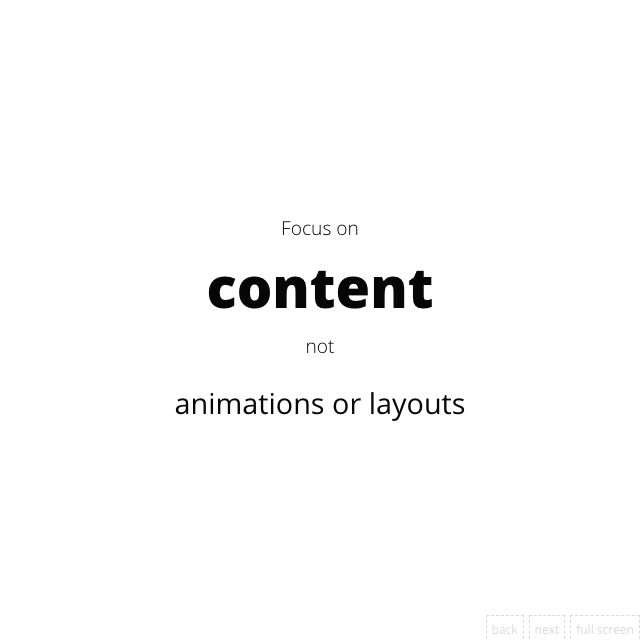
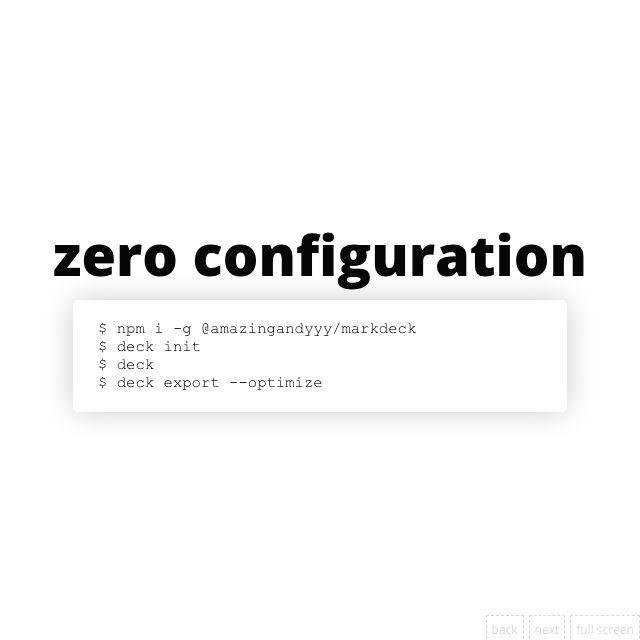
tend to deploy

Changed region(s): [[0.0625, 0.3438, 0.9375, 0.5625], [0.1562, 0.5, 0.75, 0.6562]]

diff --git a/demo/docs/deck/presentation/index.html b/demo/docs/deck/presentation/index.html
@@ -1,8 +1,20 @@
-<html lang="en"><head><meta charset="utf-8"><meta name="viewport" content="width=device-width,initial-scale=1"><meta name="referrer" content="no-referrer-when-downgrade"><title>Presentation | Welcome</title><meta property="og:type" content="article"><meta property="og:title" content="Presentation | Welcome"><meta property="og:site_name" content="markdeck"><meta property="og:image" content="https://raw.githubusercontent.com/amazingandyyy/markdeck/master/demo/docs/deck/presentation/meta/index.jpeg?1565638772988"><meta property="og:image:type" content="image/png"><meta name="twitter:card" content="summary_large_image"><meta name="twitter:image" content="https://raw.githubusercontent.com/amazingandyyy/markdeck/master/demo/docs/deck/presentation/meta/index.jpeg?1565638772988"><meta name="twitter:title" content="Presentation | Welcome"><meta property="article:modified_time" content="Mon Aug 12 2019 12:39:32 GMT-0700 (Pacific Daylight Time)"><meta property="article:publisher" content="https://amazingandyyy.com/markdeck"><meta name="twitter:site" content="@markdeck"><meta name="twitter:creator" content="@markdeck"><meta property="og:image:width" content="640"><meta property="og:image:height" content="640"><meta property="og:description" content="# Markdeck v2.1
+<html lang="en"><head><meta charset="utf-8"><meta name="viewport" content="width=device-width,initial-scale=1"><meta name="referrer" content="no-referrer-when-downgrade"><title>Presentation | Welcome</title><meta property="og:type" content="article"><meta property="og:title" content="Presentation | Welcome"><meta property="og:site_name" content="markdeck"><meta property="og:image" content="https://raw.githubusercontent.com/amazingandyyy/markdeck/master/demo/docs/deck/presentation/meta/index.jpeg?1565639082796"><meta property="og:image:type" content="image/png"><meta name="twitter:card" content="summary_large_image"><meta name="twitter:image" content="https://raw.githubusercontent.com/amazingandyyy/markdeck/master/demo/docs/deck/presentation/meta/index.jpeg?1565639082796"><meta name="twitter:title" content="Presentation | Welcome"><meta property="article:modified_time" content="Mon Aug 12 2019 12:44:42 GMT-0700 (Pacific Daylight Time)"><meta property="article:publisher" content="https://amazingandyyy.com/markdeck"><meta name="twitter:site" content="@markdeck"><meta name="twitter:creator" content="@markdeck"><meta property="og:image:width" content="640"><meta property="og:image:height" content="640"><meta property="og:description" content="# Markdeck v0.2
 
-## Build SEO friendy, sharable presentation immediately
- 
+### The first SEO friendly presentation builder
+
 Inpired by Nextjs, zero configuration!
+
+---
+
+
+# zero configuration
+
+```shell
+$ npm i -g @amazingandyyy/markdeck
+$ deck init
+$ deck
+$ deck export --optimize
+```
 
 ---
 
@@ -12,17 +24,7 @@ Focus on
 
 not
 
-## animations or layouts
-
----
-
-## zero configuration
-
-```shell
-$ npm i -g @amazingandyyy/markdeck
-$ deck init
-$ deck
-```
+### animations or layouts
 
 ---
 
@@ -67,4 +69,4 @@ Open Source On
             function goForward(loc) {
               const url = getCurrentPath()+"/"+loc;
               window.location.href = url;
-            }</script></head><body id="page-0"><div id="displayer"><div><h1 id="markdeckv21">Markdeck v2.1</h1><h2 id="buildseofriendysharablepresentationimmediately">Build SEO friendy, sharable presentation immediately</h2><p>Inpired by Nextjs, zero configuration!</p></div></div><div id="btn-container"><a class="btn" onclick='goBack("index.html")'>back</a> <a class="btn" onclick='goForward("1.html")'>next</a> <a class="btn" onclick="toggleFullScreen()">full screen</a></div></body></html>
+            }</script></head><body id="page-0"><div id="displayer"><div><h1 id="markdeckv02">Markdeck v0.2</h1><h3 id="thefirstseofriendlypresentationbuilder">The first SEO friendly presentation builder</h3><p>Inpired by Nextjs, zero configuration!</p></div></div><div id="btn-container"><a class="btn" onclick='goBack("index.html")'>back</a> <a class="btn" onclick='goForward("1.html")'>next</a> <a class="btn" onclick="toggleFullScreen()">full screen</a></div></body></html>

diff --git a/demo/docs/deck/presentation/1.html b/demo/docs/deck/presentation/1.html
@@ -1,8 +1,20 @@
-<html lang="en"><head><meta charset="utf-8"><meta name="viewport" content="width=device-width,initial-scale=1"><meta name="referrer" content="no-referrer-when-downgrade"><title>Presentation | 1</title><meta property="og:type" content="article"><meta property="og:title" content="Presentation | 1"><meta property="og:site_name" content="markdeck"><meta property="og:image" content="https://raw.githubusercontent.com/amazingandyyy/markdeck/master/demo/docs/deck/presentation/meta/1.jpeg?1565638773019"><meta property="og:image:type" content="image/png"><meta name="twitter:card" content="summary_large_image"><meta name="twitter:image" content="https://raw.githubusercontent.com/amazingandyyy/markdeck/master/demo/docs/deck/presentation/meta/1.jpeg?1565638773019"><meta name="twitter:title" content="Presentation | 1"><meta property="article:modified_time" content="Mon Aug 12 2019 12:39:33 GMT-0700 (Pacific Daylight Time)"><meta property="article:publisher" content="https://amazingandyyy.com/markdeck"><meta name="twitter:site" content="@markdeck"><meta name="twitter:creator" content="@markdeck"><meta property="og:image:width" content="640"><meta property="og:image:height" content="640"><meta property="og:description" content="# Markdeck v2.1
+<html lang="en"><head><meta charset="utf-8"><meta name="viewport" content="width=device-width,initial-scale=1"><meta name="referrer" content="no-referrer-when-downgrade"><title>Presentation | 1</title><meta property="og:type" content="article"><meta property="og:title" content="Presentation | 1"><meta property="og:site_name" content="markdeck"><meta property="og:image" content="https://raw.githubusercontent.com/amazingandyyy/markdeck/master/demo/docs/deck/presentation/meta/1.jpeg?1565639082821"><meta property="og:image:type" content="image/png"><meta name="twitter:card" content="summary_large_image"><meta name="twitter:image" content="https://raw.githubusercontent.com/amazingandyyy/markdeck/master/demo/docs/deck/presentation/meta/1.jpeg?1565639082821"><meta name="twitter:title" content="Presentation | 1"><meta property="article:modified_time" content="Mon Aug 12 2019 12:44:42 GMT-0700 (Pacific Daylight Time)"><meta property="article:publisher" content="https://amazingandyyy.com/markdeck"><meta name="twitter:site" content="@markdeck"><meta name="twitter:creator" content="@markdeck"><meta property="og:image:width" content="640"><meta property="og:image:height" content="640"><meta property="og:description" content="# Markdeck v0.2
 
-## Build SEO friendy, sharable presentation immediately
- 
+### The first SEO friendly presentation builder
+
 Inpired by Nextjs, zero configuration!
+
+---
+
+
+# zero configuration
+
+```shell
+$ npm i -g @amazingandyyy/markdeck
+$ deck init
+$ deck
+$ deck export --optimize
+```
 
 ---
 
@@ -12,17 +24,7 @@ Focus on
 
 not
 
-## animations or layouts
-
----
-
-## zero configuration
-
-```shell
-$ npm i -g @amazingandyyy/markdeck
-$ deck init
-$ deck
-```
+### animations or layouts
 
 ---
 
@@ -67,4 +69,8 @@ Open Source On
             function goForward(loc) {
               const url = getCurrentPath()+"/"+loc;
               window.location.href = url;
-            }</script></head><body id="page-1"><div id="displayer"><div><p>Focus on</p><h1 id="content">content</h1><p>not</p><h2 id="animationsorlayouts">animations or layouts</h2></div></div><div id="btn-container"><a class="btn" onclick='goBack("index.html")'>back</a> <a class="btn" onclick='goForward("2.html")'>next</a> <a class="btn" onclick="toggleFullScreen()">full screen</a></div></body></html>
+            }</script></head><body id="page-1"><div id="displayer"><div><h1 id="zeroconfiguration">zero configuration</h1><pre><code class="shell language-shell">$ npm i -g @amazingandyyy/markdeck
+$ deck init
+$ deck
+$ deck export --optimize
+</code></pre></div></div><div id="btn-container"><a class="btn" onclick='goBack("index.html")'>back</a> <a class="btn" onclick='goForward("2.html")'>next</a> <a class="btn" onclick="toggleFullScreen()">full screen</a></div></body></html>

diff --git a/demo/docs/deck/presentation/2.html b/demo/docs/deck/presentation/2.html
@@ -1,8 +1,20 @@
-<html lang="en"><head><meta charset="utf-8"><meta name="viewport" content="width=device-width,initial-scale=1"><meta name="referrer" content="no-referrer-when-downgrade"><title>Presentation | 2</title><meta property="og:type" content="article"><meta property="og:title" content="Presentation | 2"><meta property="og:site_name" content="markdeck"><meta property="og:image" content="https://raw.githubusercontent.com/amazingandyyy/markdeck/master/demo/docs/deck/presentation/meta/2.jpeg?1565638773024"><meta property="og:image:type" content="image/png"><meta name="twitter:card" content="summary_large_image"><meta name="twitter:image" content="https://raw.githubusercontent.com/amazingandyyy/markdeck/master/demo/docs/deck/presentation/meta/2.jpeg?1565638773024"><meta name="twitter:title" content="Presentation | 2"><meta property="article:modified_time" content="Mon Aug 12 2019 12:39:33 GMT-0700 (Pacific Daylight Time)"><meta property="article:publisher" content="https://amazingandyyy.com/markdeck"><meta name="twitter:site" content="@markdeck"><meta name="twitter:creator" content="@markdeck"><meta property="og:image:width" content="640"><meta property="og:image:height" content="640"><meta property="og:description" content="# Markdeck v2.1
+<html lang="en"><head><meta charset="utf-8"><meta name="viewport" content="width=device-width,initial-scale=1"><meta name="referrer" content="no-referrer-when-downgrade"><title>Presentation | 2</title><meta property="og:type" content="article"><meta property="og:title" content="Presentation | 2"><meta property="og:site_name" content="markdeck"><meta property="og:image" content="https://raw.githubusercontent.com/amazingandyyy/markdeck/master/demo/docs/deck/presentation/meta/2.jpeg?1565639082826"><meta property="og:image:type" content="image/png"><meta name="twitter:card" content="summary_large_image"><meta name="twitter:image" content="https://raw.githubusercontent.com/amazingandyyy/markdeck/master/demo/docs/deck/presentation/meta/2.jpeg?1565639082826"><meta name="twitter:title" content="Presentation | 2"><meta property="article:modified_time" content="Mon Aug 12 2019 12:44:42 GMT-0700 (Pacific Daylight Time)"><meta property="article:publisher" content="https://amazingandyyy.com/markdeck"><meta name="twitter:site" content="@markdeck"><meta name="twitter:creator" content="@markdeck"><meta property="og:image:width" content="640"><meta property="og:image:height" content="640"><meta property="og:description" content="# Markdeck v0.2
 
-## Build SEO friendy, sharable presentation immediately
- 
+### The first SEO friendly presentation builder
+
 Inpired by Nextjs, zero configuration!
+
+---
+
+
+# zero configuration
+
+```shell
+$ npm i -g @amazingandyyy/markdeck
+$ deck init
+$ deck
+$ deck export --optimize
+```
 
 ---
 
@@ -12,17 +24,7 @@ Focus on
 
 not
 
-## animations or layouts
-
----
-
-## zero configuration
-
-```shell
-$ npm i -g @amazingandyyy/markdeck
-$ deck init
-$ deck
-```
+### animations or layouts
 
 ---
 
@@ -67,7 +69,4 @@ Open Source On
             function goForward(loc) {
               const url = getCurrentPath()+"/"+loc;
               window.location.href = url;
-            }</script></head><body id="page-2"><div id="displayer"><div><h2 id="zeroconfiguration">zero configuration</h2><pre><code class="shell language-shell">$ npm i -g @amazingandyyy/markdeck
-$ deck init
-$ deck
-</code></pre></div></div><div id="btn-container"><a class="btn" onclick='goBack("1.html")'>back</a> <a class="btn" onclick='goForward("3.html")'>next</a> <a class="btn" onclick="toggleFullScreen()">full screen</a></div></body></html>
+            }</script></head><body id="page-2"><div id="displayer"><div><p>Focus on</p><h1 id="content">content</h1><p>not</p><h3 id="animationsorlayouts">animations or layouts</h3></div></div><div id="btn-container"><a class="btn" onclick='goBack("1.html")'>back</a> <a class="btn" onclick='goForward("3.html")'>next</a> <a class="btn" onclick="toggleFullScreen()">full screen</a></div></body></html>

diff --git a/demo/docs/deck/presentation/3.html b/demo/docs/deck/presentation/3.html
@@ -1,8 +1,20 @@
-<html lang="en"><head><meta charset="utf-8"><meta name="viewport" content="width=device-width,initial-scale=1"><meta name="referrer" content="no-referrer-when-downgrade"><title>Presentation | 3</title><meta property="og:type" content="article"><meta property="og:title" content="Presentation | 3"><meta property="og:site_name" content="markdeck"><meta property="og:image" content="https://raw.githubusercontent.com/amazingandyyy/markdeck/master/demo/docs/deck/presentation/meta/3.jpeg?1565638773029"><meta property="og:image:type" content="image/png"><meta name="twitter:card" content="summary_large_image"><meta name="twitter:image" content="https://raw.githubusercontent.com/amazingandyyy/markdeck/master/demo/docs/deck/presentation/meta/3.jpeg?1565638773029"><meta name="twitter:title" content="Presentation | 3"><meta property="article:modified_time" content="Mon Aug 12 2019 12:39:33 GMT-0700 (Pacific Daylight Time)"><meta property="article:publisher" content="https://amazingandyyy.com/markdeck"><meta name="twitter:site" content="@markdeck"><meta name="twitter:creator" content="@markdeck"><meta property="og:image:width" content="640"><meta property="og:image:height" content="640"><meta property="og:description" content="# Markdeck v2.1
+<html lang="en"><head><meta charset="utf-8"><meta name="viewport" content="width=device-width,initial-scale=1"><meta name="referrer" content="no-referrer-when-downgrade"><title>Presentation | 3</title><meta property="og:type" content="article"><meta property="og:title" content="Presentation | 3"><meta property="og:site_name" content="markdeck"><meta property="og:image" content="https://raw.githubusercontent.com/amazingandyyy/markdeck/master/demo/docs/deck/presentation/meta/3.jpeg?1565639082829"><meta property="og:image:type" content="image/png"><meta name="twitter:card" content="summary_large_image"><meta name="twitter:image" content="https://raw.githubusercontent.com/amazingandyyy/markdeck/master/demo/docs/deck/presentation/meta/3.jpeg?1565639082829"><meta name="twitter:title" content="Presentation | 3"><meta property="article:modified_time" content="Mon Aug 12 2019 12:44:42 GMT-0700 (Pacific Daylight Time)"><meta property="article:publisher" content="https://amazingandyyy.com/markdeck"><meta name="twitter:site" content="@markdeck"><meta name="twitter:creator" content="@markdeck"><meta property="og:image:width" content="640"><meta property="og:image:height" content="640"><meta property="og:description" content="# Markdeck v0.2
 
-## Build SEO friendy, sharable presentation immediately
- 
+### The first SEO friendly presentation builder
+
 Inpired by Nextjs, zero configuration!
+
+---
+
+
+# zero configuration
+
+```shell
+$ npm i -g @amazingandyyy/markdeck
+$ deck init
+$ deck
+$ deck export --optimize
+```
 
 ---
 
@@ -12,17 +24,7 @@ Focus on
 
 not
 
-## animations or layouts
-
----
-
-## zero configuration
-
-```shell
-$ npm i -g @amazingandyyy/markdeck
-$ deck init
-$ deck
-```
+### animations or layouts
 
 ---
 

diff --git a/demo/docs/deck/presentation/4.html b/demo/docs/deck/presentation/4.html
@@ -1,8 +1,20 @@
-<html lang="en"><head><meta charset="utf-8"><meta name="viewport" content="width=device-width,initial-scale=1"><meta name="referrer" content="no-referrer-when-downgrade"><title>Presentation | 4</title><meta property="og:type" content="article"><meta property="og:title" content="Presentation | 4"><meta property="og:site_name" content="markdeck"><meta property="og:image" content="https://raw.githubusercontent.com/amazingandyyy/markdeck/master/demo/docs/deck/presentation/meta/4.jpeg?1565638773034"><meta property="og:image:type" content="image/png"><meta name="twitter:card" content="summary_large_image"><meta name="twitter:image" content="https://raw.githubusercontent.com/amazingandyyy/markdeck/master/demo/docs/deck/presentation/meta/4.jpeg?1565638773034"><meta name="twitter:title" content="Presentation | 4"><meta property="article:modified_time" content="Mon Aug 12 2019 12:39:33 GMT-0700 (Pacific Daylight Time)"><meta property="article:publisher" content="https://amazingandyyy.com/markdeck"><meta name="twitter:site" content="@markdeck"><meta name="twitter:creator" content="@markdeck"><meta property="og:image:width" content="640"><meta property="og:image:height" content="640"><meta property="og:description" content="# Markdeck v2.1
+<html lang="en"><head><meta charset="utf-8"><meta name="viewport" content="width=device-width,initial-scale=1"><meta name="referrer" content="no-referrer-when-downgrade"><title>Presentation | 4</title><meta property="og:type" content="article"><meta property="og:title" content="Presentation | 4"><meta property="og:site_name" content="markdeck"><meta property="og:image" content="https://raw.githubusercontent.com/amazingandyyy/markdeck/master/demo/docs/deck/presentation/meta/4.jpeg?1565639082837"><meta property="og:image:type" content="image/png"><meta name="twitter:card" content="summary_large_image"><meta name="twitter:image" content="https://raw.githubusercontent.com/amazingandyyy/markdeck/master/demo/docs/deck/presentation/meta/4.jpeg?1565639082837"><meta name="twitter:title" content="Presentation | 4"><meta property="article:modified_time" content="Mon Aug 12 2019 12:44:42 GMT-0700 (Pacific Daylight Time)"><meta property="article:publisher" content="https://amazingandyyy.com/markdeck"><meta name="twitter:site" content="@markdeck"><meta name="twitter:creator" content="@markdeck"><meta property="og:image:width" content="640"><meta property="og:image:height" content="640"><meta property="og:description" content="# Markdeck v0.2
 
-## Build SEO friendy, sharable presentation immediately
- 
+### The first SEO friendly presentation builder
+
 Inpired by Nextjs, zero configuration!
+
+---
+
+
+# zero configuration
+
+```shell
+$ npm i -g @amazingandyyy/markdeck
+$ deck init
+$ deck
+$ deck export --optimize
+```
 
 ---
 
@@ -12,17 +24,7 @@ Focus on
 
 not
 
-## animations or layouts
-
----
-
-## zero configuration
-
-```shell
-$ npm i -g @amazingandyyy/markdeck
-$ deck init
-$ deck
-```
+### animations or layouts
 
 ---
 

diff --git a/demo/docs/deck/presentation/5.html b/demo/docs/deck/presentation/5.html
@@ -1,8 +1,20 @@
-<html lang="en"><head><meta charset="utf-8"><meta name="viewport" content="width=device-width,initial-scale=1"><meta name="referrer" content="no-referrer-when-downgrade"><title>Presentation | 5</title><meta property="og:type" content="article"><meta property="og:title" content="Presentation | 5"><meta property="og:site_name" content="markdeck"><meta property="og:image" content="https://raw.githubusercontent.com/amazingandyyy/markdeck/master/demo/docs/deck/presentation/meta/5.jpeg?1565638773039"><meta property="og:image:type" content="image/png"><meta name="twitter:card" content="summary_large_image"><meta name="twitter:image" content="https://raw.githubusercontent.com/amazingandyyy/markdeck/master/demo/docs/deck/presentation/meta/5.jpeg?1565638773039"><meta name="twitter:title" content="Presentation | 5"><meta property="article:modified_time" content="Mon Aug 12 2019 12:39:33 GMT-0700 (Pacific Daylight Time)"><meta property="article:publisher" content="https://amazingandyyy.com/markdeck"><meta name="twitter:site" content="@markdeck"><meta name="twitter:creator" content="@markdeck"><meta property="og:image:width" content="640"><meta property="og:image:height" content="640"><meta property="og:description" content="# Markdeck v2.1
+<html lang="en"><head><meta charset="utf-8"><meta name="viewport" content="width=device-width,initial-scale=1"><meta name="referrer" content="no-referrer-when-downgrade"><title>Presentation | 5</title><meta property="og:type" content="article"><meta property="og:title" content="Presentation | 5"><meta property="og:site_name" content="markdeck"><meta property="og:image" content="https://raw.githubusercontent.com/amazingandyyy/markdeck/master/demo/docs/deck/presentation/meta/5.jpeg?1565639082844"><meta property="og:image:type" content="image/png"><meta name="twitter:card" content="summary_large_image"><meta name="twitter:image" content="https://raw.githubusercontent.com/amazingandyyy/markdeck/master/demo/docs/deck/presentation/meta/5.jpeg?1565639082844"><meta name="twitter:title" content="Presentation | 5"><meta property="article:modified_time" content="Mon Aug 12 2019 12:44:42 GMT-0700 (Pacific Daylight Time)"><meta property="article:publisher" content="https://amazingandyyy.com/markdeck"><meta name="twitter:site" content="@markdeck"><meta name="twitter:creator" content="@markdeck"><meta property="og:image:width" content="640"><meta property="og:image:height" content="640"><meta property="og:description" content="# Markdeck v0.2
 
-## Build SEO friendy, sharable presentation immediately
- 
+### The first SEO friendly presentation builder
+
 Inpired by Nextjs, zero configuration!
+
+---
+
+
+# zero configuration
+
+```shell
+$ npm i -g @amazingandyyy/markdeck
+$ deck init
+$ deck
+$ deck export --optimize
+```
 
 ---
 
@@ -12,17 +24,7 @@ Focus on
 
 not
 
-## animations or layouts
-
----
-
-## zero configuration
-
-```shell
-$ npm i -g @amazingandyyy/markdeck
-$ deck init
-$ deck
-```
+### animations or layouts
 
 ---
 

diff --git a/demo/decks/presentation.md b/demo/decks/presentation.md
@@ -1,8 +1,20 @@
-# Markdeck v2.1
+# Markdeck v0.2
 
-## Build SEO friendy, sharable presentation immediately
- 
+### The first SEO friendly presentation builder
+
 Inpired by Nextjs, zero configuration!
+
+---
+
+
+# zero configuration
+
+```shell
+$ npm i -g @amazingandyyy/markdeck
+$ deck init
+$ deck
+$ deck export --optimize
+```
 
 ---
 
@@ -12,17 +24,7 @@ Focus on
 
 not
 
-## animations or layouts
-
----
-
-## zero configuration
-
-```shell
-$ npm i -g @amazingandyyy/markdeck
-$ deck init
-$ deck
-```
+### animations or layouts
 
 ---
 
